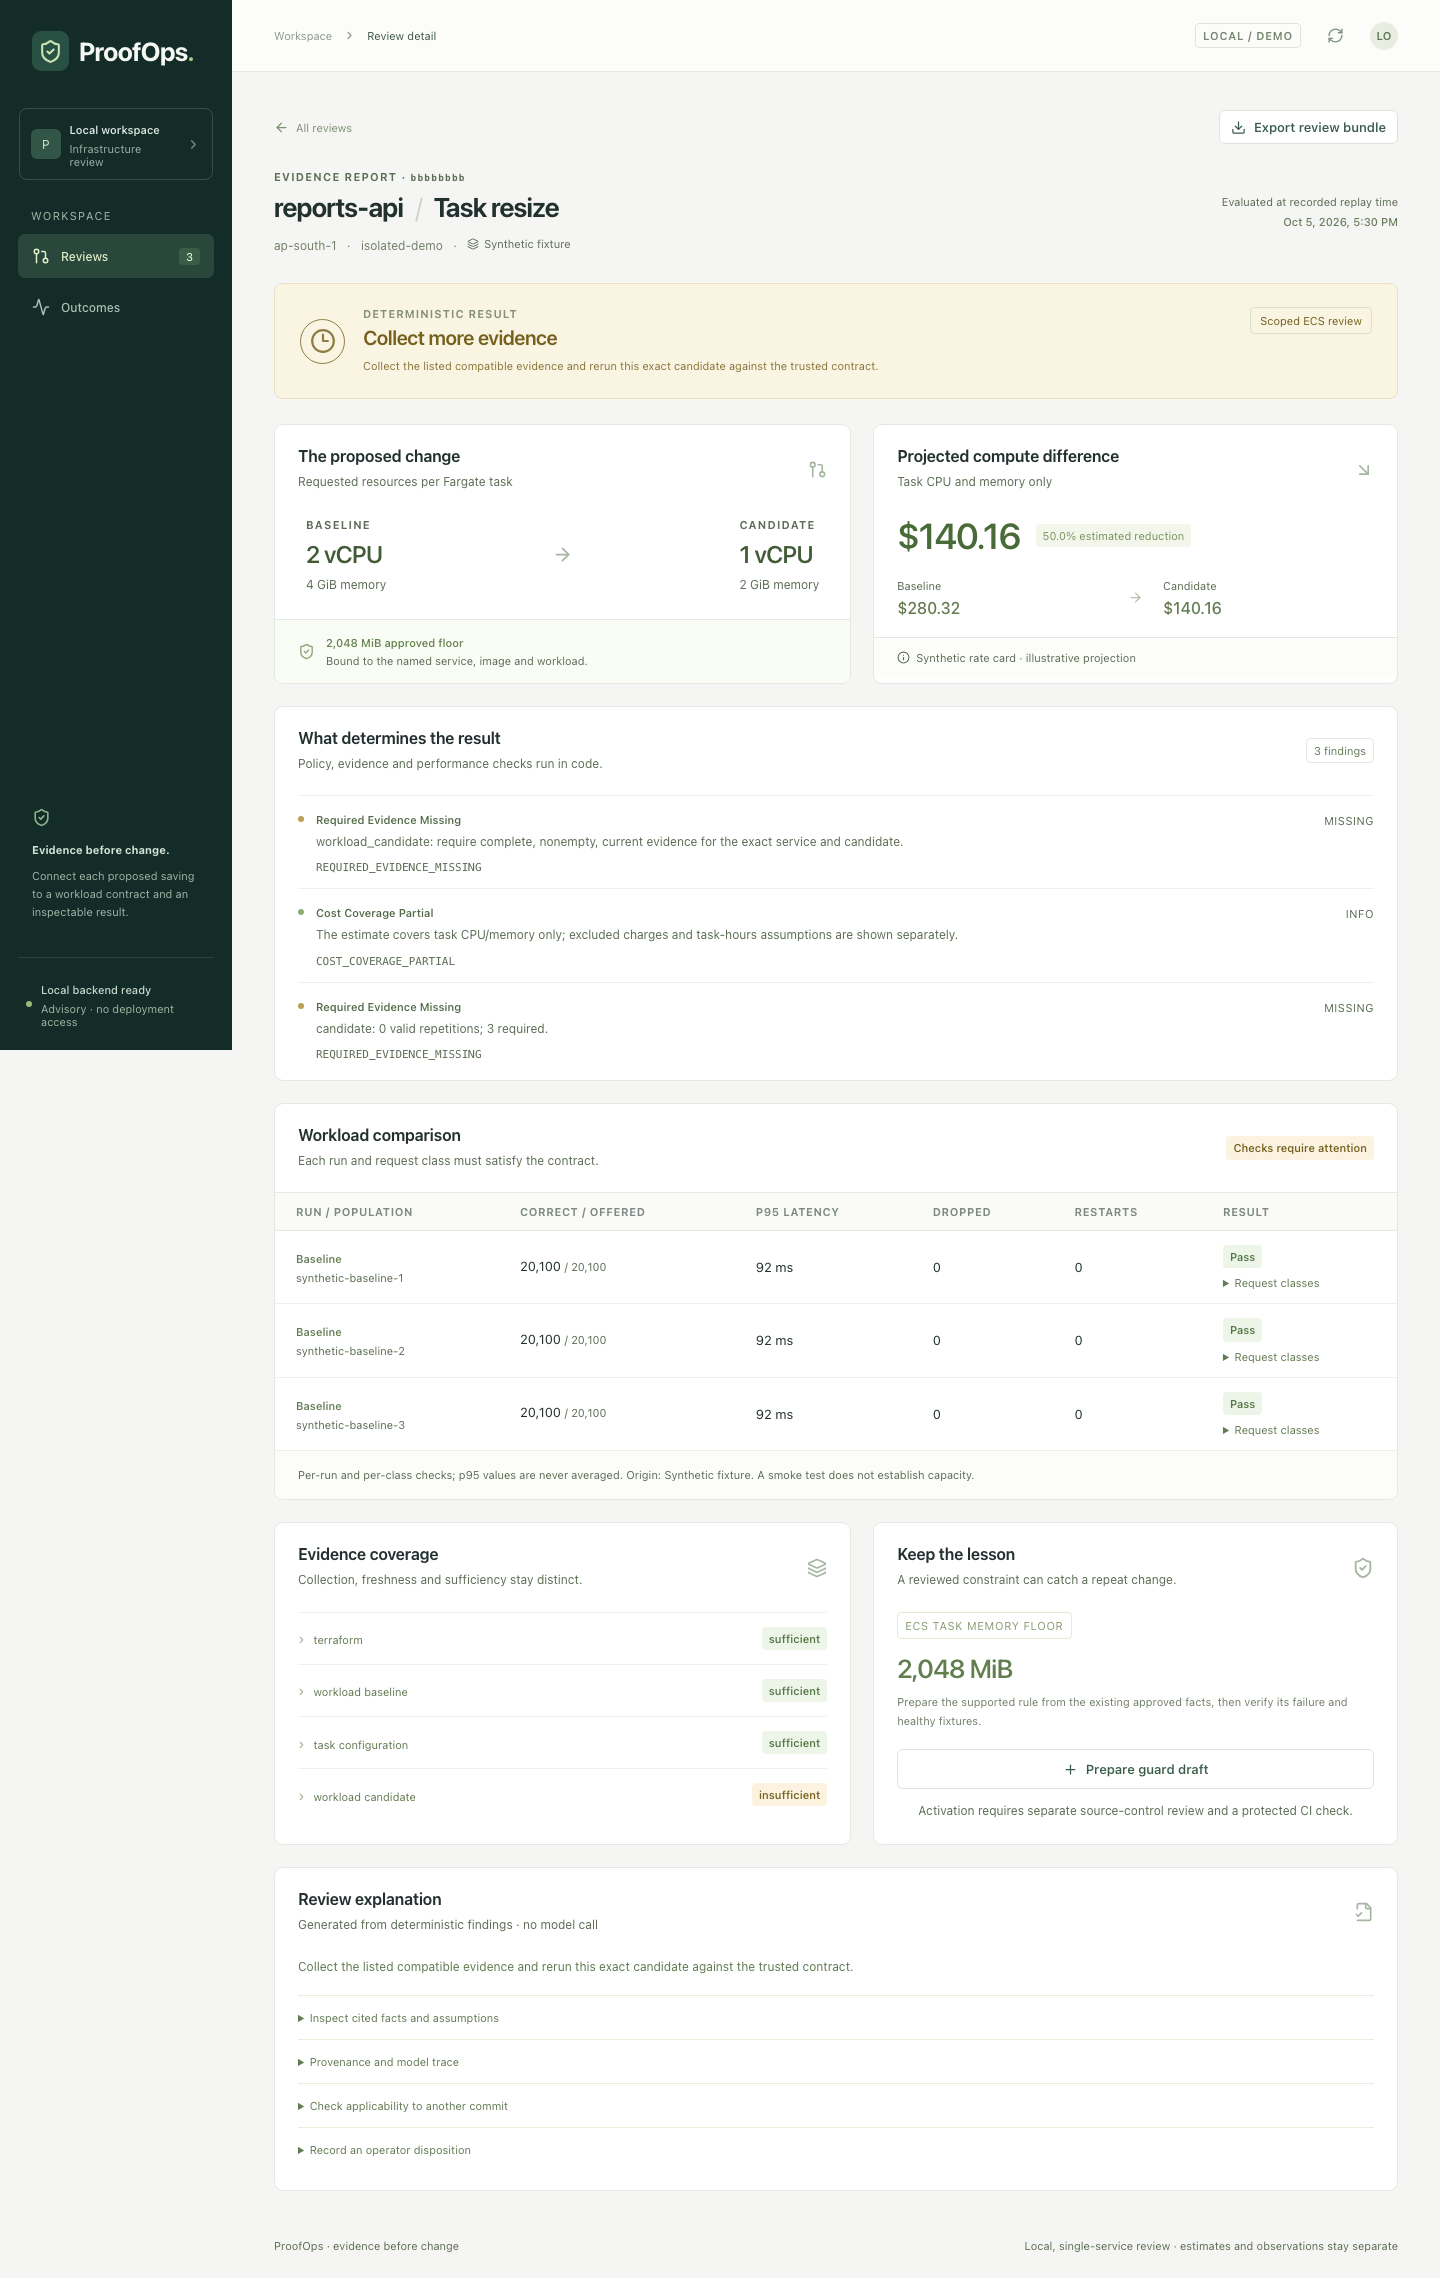
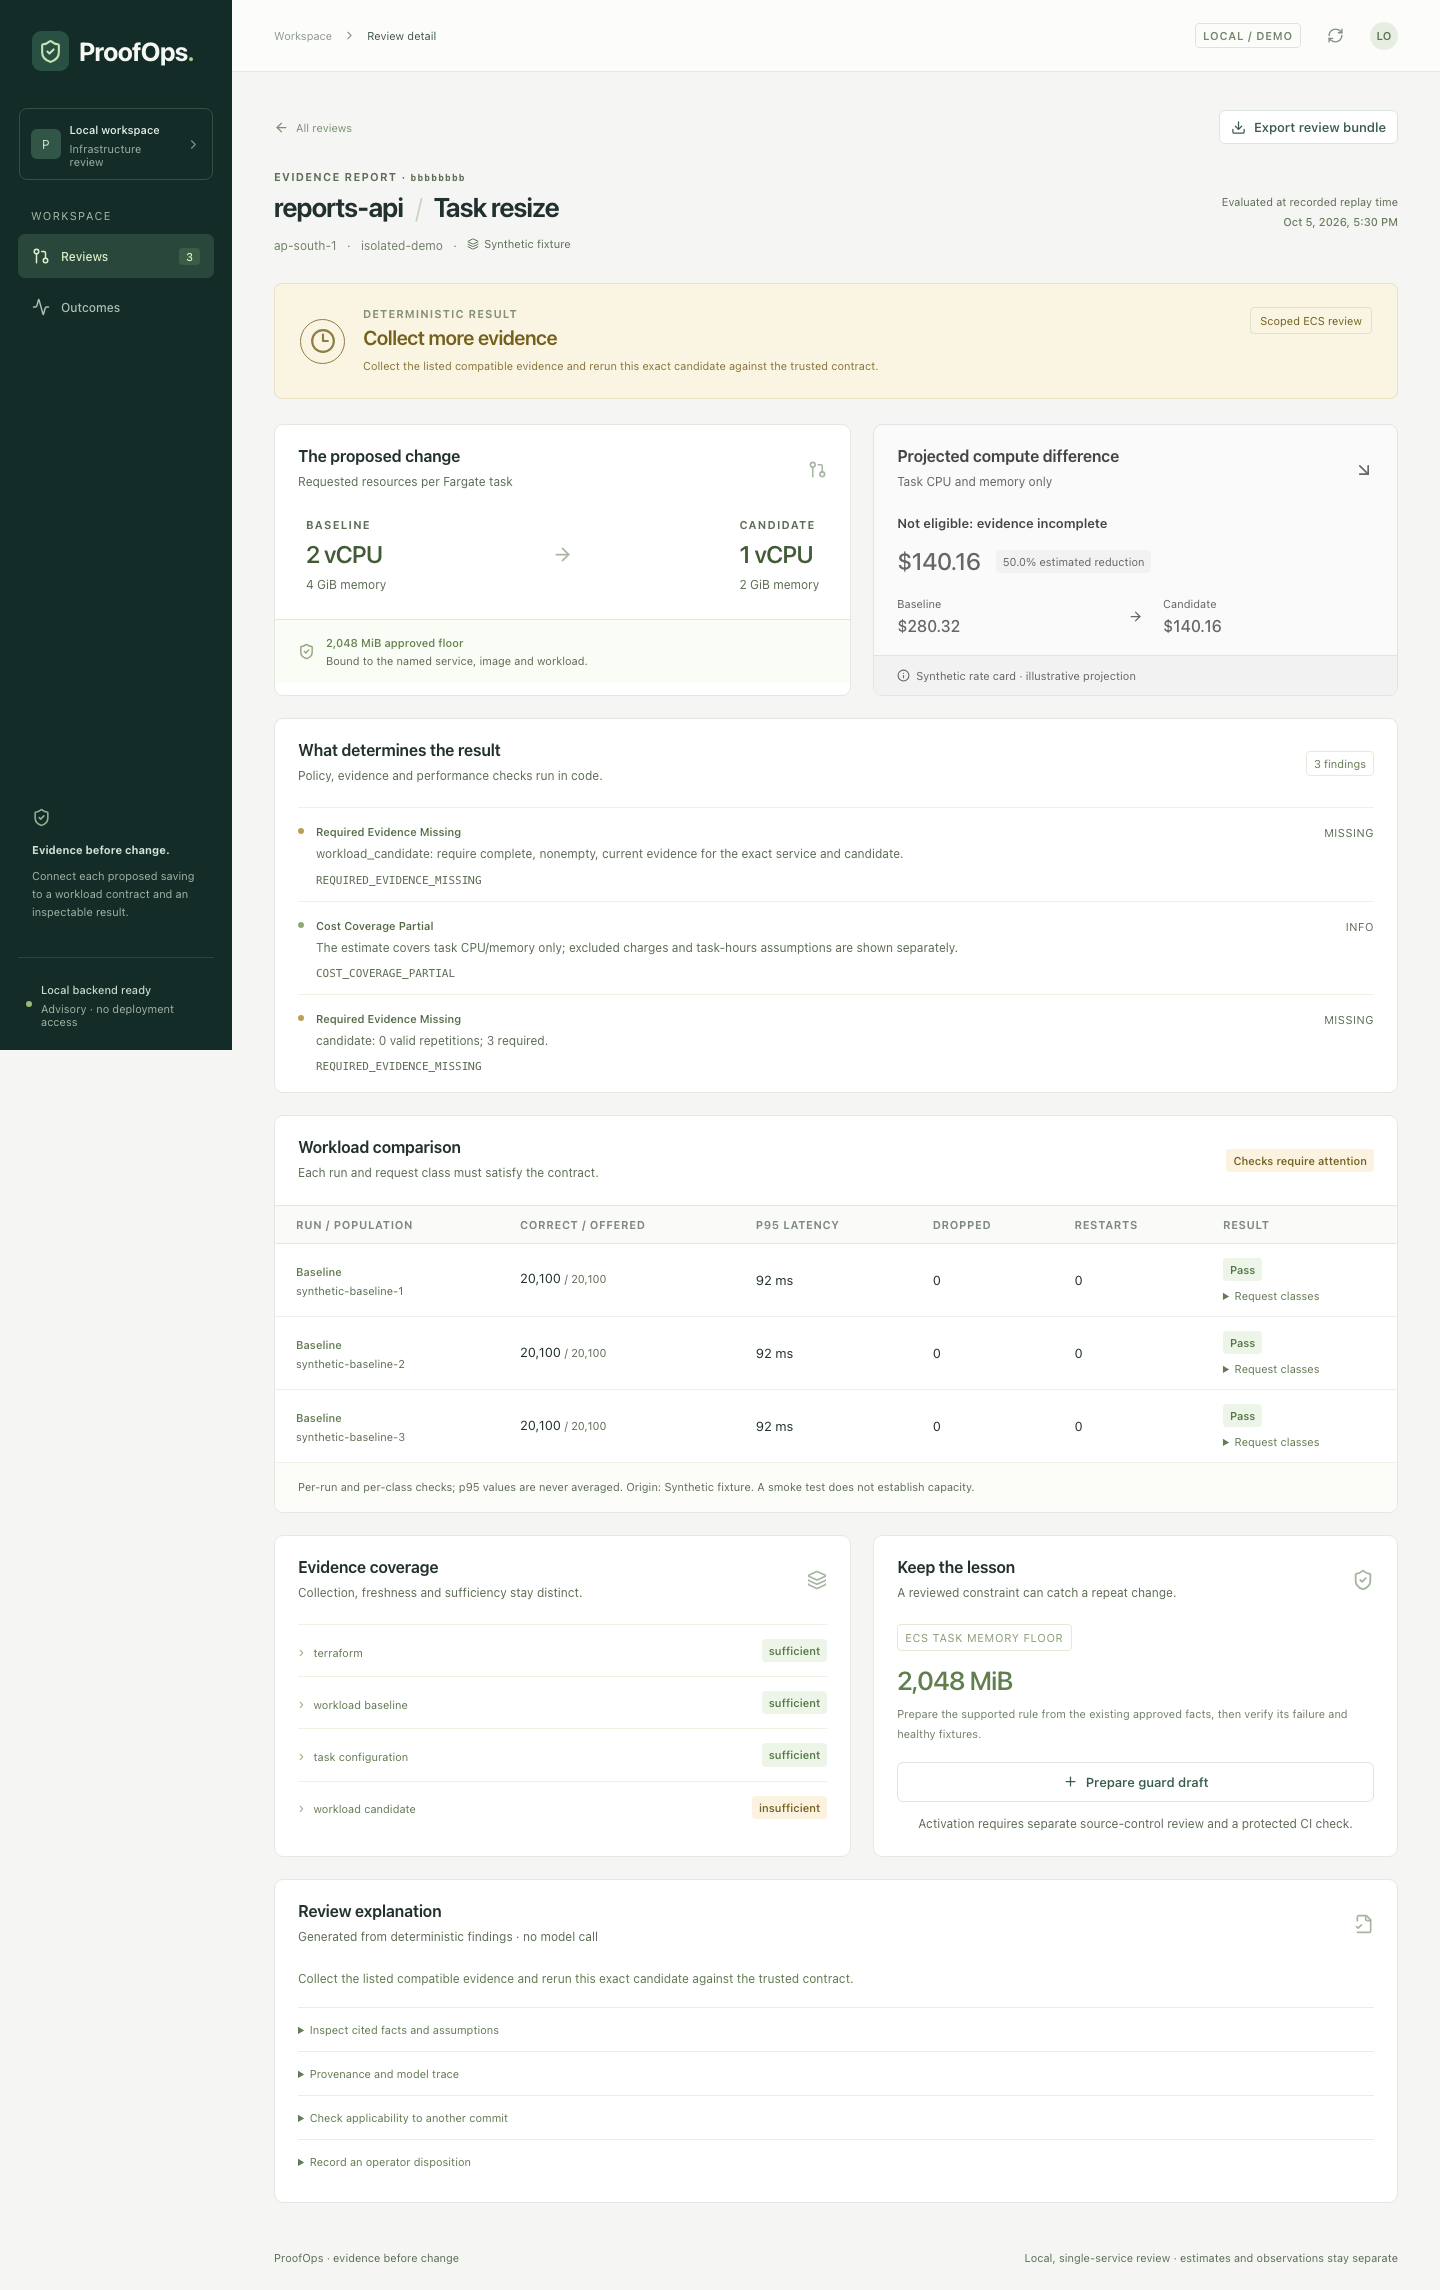
docs: refresh review eligibility screenshots

diff --git a/CHANGELOG.md b/CHANGELOG.md
@@ -5,7 +5,8 @@
 - On review detail pages, `revise_change` labels the projected compute difference “Not eligible: resolve findings first”; `collect_evidence` uses “Not eligible: evidence incomplete”. Both cards use neutral greys and a smaller projected amount, keeping the difference, percentage, baseline and candidate estimates visible. `request_review` retains its existing appearance.
 - Extended the existing three Playwright replay scenarios to check the exact estimates, percentage, eligibility label, colours and projected amount size on desktop and at 390 px. The ready scenario explicitly retains its green styling and existing desktop/mobile type sizes; imports, worker execution, evidence inspection and downloads remain covered.
 - Assumptions: eligibility copy follows the saved review outcome; it does not re-evaluate findings or current applicability. Existing number formatting, cost arithmetic, review logic, scoring, findings and backend results remain unchanged. Validation and screenshots use local synthetic replays with template explanations and no live AWS/model calls; research files and evaluator data are outside the change.
-- Verification: all 123 backend tests, the native frontend build, Docker web build and 12 Playwright e2e tests passed. Database and browser checks ran outside the sandbox with approved local service access. The existing upstream TestClient deprecation warning remains.
+- Regenerated all three `docs/screenshots/` PNGs with the existing `npm run screenshots:demo` script after resetting the local demo. The ready screenshot is byte-for-byte identical to its previous version; only the two ineligible screenshots have changed. Visual inspection confirmed synthetic fixture content and generic workspace labels with no keys or personal data; all three PNGs have no metadata.
+- Verification: all 123 backend tests, the native frontend build, Docker web build, 12 Playwright e2e tests and three screenshot captures passed. Database and browser checks ran outside the sandbox with approved local service access. The existing upstream TestClient deprecation warning remains. The local app is left with exactly three completed, AI-off demo reviews.
 
 ## Presentation-ready demo — 2026-10-05
 
